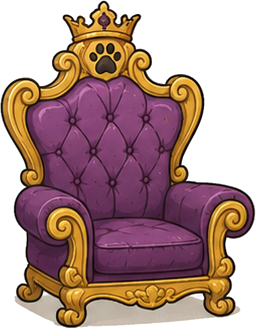
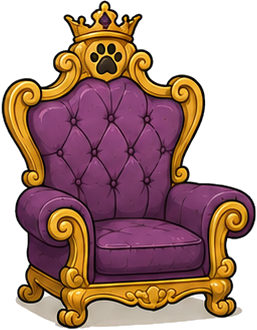
Re-cut the nine habitat rewards from the emptied artwork
Four of the nine had their pet painted into them, which left the live pet with
nowhere to stand — put a fox on the fox den and the room shows two. The set has
been redrawn without them, so the shipped files are cut again from the new sheet.

The white is keyed by REACH FROM THE BORDER, the same way the farm animals were
cut and for the same reason: a colour key would take the bunny garden's picket
fence and the doghouse's bone with it, while every piece carries a dark outline
a flood fill cannot cross. What that misses is white the border cannot reach —
the opening of the bunny garden's arch, the gap under the hamster ramp, the air
between bamboo stalks — so those come out on a second pass, told apart from
drawn white by being paper white across a wide area.

All nine land within 1.1% of their old aspect, so the DECOR_ART widths stay put.

The pictures now ride room-decorations.js's cache-buster, which is what makes
the swap reach anyone who has already played: the filenames did not change, and
the whole point of the re-cut is a drawing a returning browser is holding the
old version of.

Claude-Session: https://claude.ai/code/session_01F4P9R2P9yy7FZB26CBc4aJ

diff --git a/games/room/js/room-decorations.js b/games/room/js/room-decorations.js
@@ -316,6 +316,18 @@
 
     const _decorImgs = {};
 
+    /* The pictures ride this script's OWN cache-buster (room.html loads it as
+       room-decorations.js?v=cbNNN), the same arrangement the farm sheets use.
+       Re-drawing a piece keeps its filename, so without this a browser holding
+       the old file goes on showing it — and the habitat rewards were re-drawn
+       precisely to take the animals back OUT of them, which is a change that
+       has to reach a returning player to mean anything. Bumping the script
+       version bumps its artwork with it. */
+    const DECOR_ART_Q = (function (src) {
+      const q = src.indexOf('?');
+      return q >= 0 ? src.slice(q) : '';
+    })((document.currentScript && document.currentScript.src) || '');
+
     /* Loaded on FIRST DRAW, not on page load: a room only pays for the pieces
        it actually owns. Null for anything with no artwork of its own. */
     function decorArt(id) {
@@ -323,7 +335,7 @@
       let img = _decorImgs[id];
       if (!img) {
         img = _decorImgs[id] = new Image();
-        img.src = 'room/img/' + DECOR_ART[id].dir + '/' + id + '.png';
+        img.src = 'room/img/' + DECOR_ART[id].dir + '/' + id + '.png' + DECOR_ART_Q;
       }
       return img;
     }

diff --git a/games/room.html b/games/room.html
@@ -443,7 +443,7 @@
   <script defer src="room/js/room-render.js?v=cb137"></script>
   <script defer src="room/js/room-actions.js?v=cb136"></script>
   <script defer src="room/js/room-plants.js?v=cb122"></script>
-  <script defer src="room/js/room-decorations.js?v=cb135"></script>
+  <script defer src="room/js/room-decorations.js?v=cb147"></script>
   <script defer src="room/js/room-bg.js?v=cb127"></script>
   <script defer src="room/js/room-pets.js?v=cb136"></script>
   <script defer src="room/js/room-ui.js?v=cb142"></script>

diff --git a/docs/superpowers/specs/2026-08-07-pet-furniture-pose-art-prompt.md b/docs/superpowers/specs/2026-08-07-pet-furniture-pose-art-prompt.md
@@ -193,7 +193,20 @@
 
 ---
 
-## 挡路的问题：九件家具里有四件自带动物
+## 挡路的问题：九件家具里有四件自带动物 —— 已解决（v2）
+
+> **已处理。** `games/room/img/petFurniture2.png` 重画了整套九件，四只动物都拿掉了，
+> 已经切好换掉 `games/room/img/furniture/decor_*.png`。下面这节留着当纪录。
+>
+> 切法：从画面边界泛洪进来键掉白底（**不能用全域白色比对**——白栅栏和狗骨头会一起被吃掉，
+> 但每件都有深色描边挡得住泛洪），再把边界进不去的封闭纯白区补键掉
+> （兔子拱门的门洞、仓鼠斜坡底下、竹子之间的缝），最后裁到内容边界。
+> 九件的长宽比都落在 v1 的 ±1.1% 内，所以 `DECOR_ART` 的宽度常数一个都不用动。
+>
+> 一件回归要知道：**v2 的沙发背上没有 "TOM" 字了**，v1 有。整套是重画不是局部擦除，
+> 所以细节多少有变（栅栏排法、椅背排扣）。要把字找回来得再叫它补一次。
+
+
 
 姿势格画的是宠物本体，家具是另一张图，程式把两张叠起来——前提是**家具图里没有动物**。
 但 `games/room/img/furniture/` 里有四件已经把动物画进去了：
